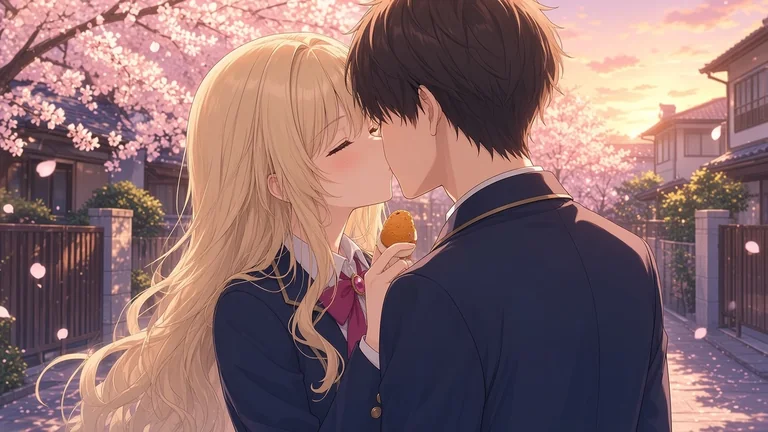
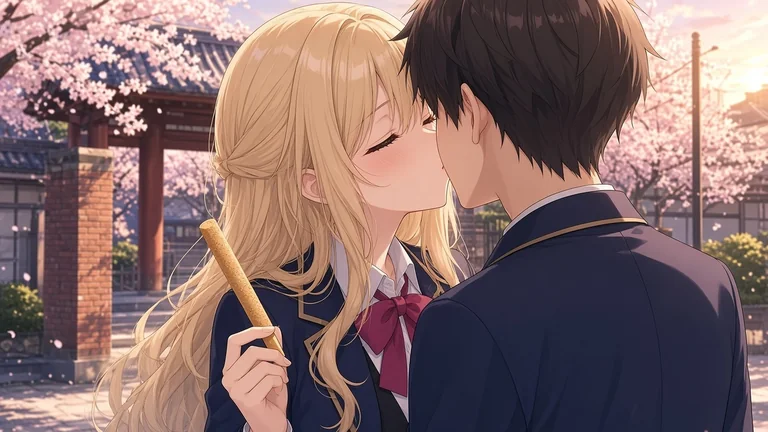
v1.8.3: CG追加（ことは・ルカ各5枚）、夏帆の食堂・麗華のキスCGを描き直し

diff --git a/public/changelog.html b/public/changelog.html
@@ -1,5 +1,5 @@
 <!doctype html><html lang="ja"><head><meta charset="utf-8"><meta name="viewport" content="width=device-width,initial-scale=1"><title>更新履歴 | 青春クロニクル ～君と過ごした1000日間～</title><link rel="icon" href="./icon.svg">
 <style>body{font-family:"Hiragino Sans","Noto Sans JP",system-ui,sans-serif;background:#f6f1e9;color:#2b2622;max-width:720px;margin:0 auto;padding:24px 18px 60px;line-height:1.85}h1{font-size:1.5rem}h2{font-size:1.1rem;color:#2f6f73;margin-top:2em}a{color:#2f6f73}.ph{background:#fff3cd;padding:2px 6px;border-radius:4px}</style></head>
-<body><p><a href="./">← ゲームに戻る</a></p><h1>更新履歴</h1><h2>2026-10-31（v1.8.2）</h2><ul><li>イベントCG（一枚絵）を追加：速水夏帆・桐生院麗華の各5枚（個別イベント3枚・告白・キス）。グッドエンドにキスの場面を追加</li></ul><h2>2026-10-31（v1.8.1）</h2><ul><li>イベントCG（一枚絵）を追加：氷室澪・白鷺ゆらの各5枚（個別イベント3枚・告白・キス）。グッドエンドにキスの場面を追加</li><li>春日ひなたの「アルバムの写真」（指切りの写真）と「雨宿りの告白未遂」（商店街のアーケード）を本文に合わせて描き直し</li><li>CGの輪郭をよりくっきりさせる処理を追加</li></ul><h2>2026-10-31（v1.8.0）</h2><ul><li>イベントCG（一枚絵）に対応：大事な場面で画面いっぱいのイラストが表示され、その上に台詞が出ます（スマホ縦画面では絵を切らずに表示）</li><li>まずは春日ひなたの5枚（焼きたての朝・アルバムの写真・雨宿りの告白未遂・歩道橋の告白・春風のキス）。ほかのヒロインは順次追加予定</li><li>ひなたのグッドエンドにキスの場面を追加</li><li>タイトル画面に「CGモード」：一度見たCGをいつでも見返せます</li></ul><h2>2026-10-31（v1.7.5）</h2><ul><li>公開URLを https://gamebar777.github.io/seishun-chronicle/ に変更しました（旧URLは表示されなくなります）</li><li>紹介ページ・README に残っていた旧作名を削除</li></ul><h2>2026-10-31（v1.7.4）</h2><ul><li>井上 暸の立ち絵を描き直しました（スポーツ刈り・太い眉・落ち着いた顔立ちに変更、メガネなし。制服はそのまま、6表情すべて差し替え）</li></ul><h2>2026-10-31（v1.7.3）</h2><ul><li>芽衣・健太・井上 暸に立ち絵がつきました（各6表情：通常・笑顔・悲しみ・驚き・怒り・照れ）。話している場面で表示され、台詞に合わせて表情が変わります</li><li>話し手が切り替わった直後に、前の人物の髪が重なって見えることがある不具合を修正</li></ul><h2>2026-10-31（v1.7.2）</h2><ul><li>悪友・田中大吾の名前を「井上 暸（いのうえ・りょう）」に変更（台詞・設定の表示も変更、名前が出る台詞は声も録り直し）</li><li>ボイスで「澪（みお）」が「もお」のように聞こえる問題を修正：人名の読みを指定して、名前が出る台詞を録り直し（澪・氷室ほか約240行）</li></ul><h2>2026-10-31（v1.7.1）</h2><ul><li>田中大吾にボイスがつきました（109行、ElevenLabs のAI音声）。設定に田中の音量を追加</li></ul><h2>2026-10-31（v1.7）</h2><ul><li>新キャラ・田中大吾が登場：主人公の悪友で自称「恋愛研究会」会長。ボケ倒すけど根はいいやつ。健太との3人の場面を含む27本、卒業式やエンディングにも登場（声はまだなし・端末の読み上げ）</li><li>健太をイケメンで相談に乗ってくれる親友に：相談の場面5本を追加、プロローグ・バレンタイン・卒業式の台詞を追加（新しい台詞にもボイスつき）</li><li>噂や爆弾の情報を教えてくれる健太の役割は従来どおり</li><li>1周のプレイ時間の目安が約3.8時間から約4.2時間に</li></ul><h2>2026-10-31（v1.6）</h2><ul><li>ヒロイン9人・芽衣・健太・真鍋先生の台詞にボイスがつきました（約2,240行。ElevenLabs で生成したAI音声）</li><li>主人公の名前は文字では表示され、音声では名前を呼ばない言い回しになります</li><li>設定に「ボイスON」と、芽衣・健太・真鍋先生の音量を追加</li><li>地の文とその他の人物は、これまでどおり端末内蔵の読み上げです</li></ul><h2>2026-10-31（v1.5）</h2><ul><li>主人公の妹・芽衣（めい）が登場：家での場面37本（1年目は中学3年の受験生、2年目に星見ヶ丘学園へ入学）。誕生日、初詣、受験、クリスマス、卒業式の送辞など</li><li>約9週ごとに「芽衣の恋愛相談」：気になる子の様子（好感度の目安・爆弾の気配・しばらく話していない子）を教えてくれます</li><li>一部のエンディングに芽衣が登場</li><li>1周のプレイ時間の目安が約3.4時間から約3.8時間に</li></ul><h2>2026-10-31（v1.4）</h2><ul><li>シナリオを大幅に追加：学校生活の日常シーン113本（行事・季節・友人とのひととき）、ヒロイン9人のサイドイベント27本（各3話）、デート先15か所の到着・別れの描写、卒業式の場面を拡張</li><li>1周のプレイ時間の目安が約2.3時間から約3.4時間に</li><li>日常シーンやヒロインから来るサイドイベントは「会いに行った」扱いにならないように（放っておくと爆弾が点く仕組みは従来どおり）</li></ul><h2>2026-10-31（v1.3）</h2><ul><li>主題歌を提供音源（ボーカル入り）に変更。タイトル画面の「🎵 主題歌」で再生・停止・ループ、歌詞表示の切り替え。エンディングでも流れます</li></ul><h2>2026-10-31（v1.2）</h2><ul><li>立ち絵を高解像度化（PC 640px幅／スマホ 360px幅）、縁取りを除去、凛の髪型を統一</li><li>全ヒロインに驚き・怒り・照れの表情を追加（計6表情）</li><li>告白・エンディング・夏祭りデートに一枚絵CGを追加</li><li>BGMを強化（リバーブ、対旋律、フィル入りドラム、ステレオ定位）、主題歌のメロディを作り直し（インストゥルメンタル）</li><li>タイトル画面・場面転換・告白シーンの演出を追加</li><li>BGMの音量・帯域バランスを調整（低音を抑え、メロディを明瞭に）</li></ul><h2>2026-10-31（v1.1）</h2><ul><li>動く背景イラスト16種（季節・天気・時間帯で桜／雨／雪／落ち葉／蛍のエフェクト、視差、色調）</li><li>ヒロイン9人の立ち絵（通常・笑顔・悲しみの3表情）</li><li>場面別BGM6曲と主題歌「千日のプレリュード」（オリジナル・インストゥルメンタル、歌詞表示つき）</li><li>サイドイベント18本を追加</li></ul><h2>2026-10-31</h2><p>旧作に代わり、恋愛学園シミュレーション『青春クロニクル』として作り直しました。</p>
+<body><p><a href="./">← ゲームに戻る</a></p><h1>更新履歴</h1><h2>2026-10-31（v1.8.3）</h2><ul><li>イベントCG（一枚絵）を追加：灯野ことは・姫野ルカの各5枚（個別イベント3枚・告白・キス）。グッドエンドにキスの場面を追加</li><li>夏帆の「はやみ食堂」（品書きの崩れた文字を除去）と麗華のキスCG（きなこ棒を棒状に）を描き直し</li></ul><h2>2026-10-31（v1.8.2）</h2><ul><li>イベントCG（一枚絵）を追加：速水夏帆・桐生院麗華の各5枚（個別イベント3枚・告白・キス）。グッドエンドにキスの場面を追加</li></ul><h2>2026-10-31（v1.8.1）</h2><ul><li>イベントCG（一枚絵）を追加：氷室澪・白鷺ゆらの各5枚（個別イベント3枚・告白・キス）。グッドエンドにキスの場面を追加</li><li>春日ひなたの「アルバムの写真」（指切りの写真）と「雨宿りの告白未遂」（商店街のアーケード）を本文に合わせて描き直し</li><li>CGの輪郭をよりくっきりさせる処理を追加</li></ul><h2>2026-10-31（v1.8.0）</h2><ul><li>イベントCG（一枚絵）に対応：大事な場面で画面いっぱいのイラストが表示され、その上に台詞が出ます（スマホ縦画面では絵を切らずに表示）</li><li>まずは春日ひなたの5枚（焼きたての朝・アルバムの写真・雨宿りの告白未遂・歩道橋の告白・春風のキス）。ほかのヒロインは順次追加予定</li><li>ひなたのグッドエンドにキスの場面を追加</li><li>タイトル画面に「CGモード」：一度見たCGをいつでも見返せます</li></ul><h2>2026-10-31（v1.7.5）</h2><ul><li>公開URLを https://gamebar777.github.io/seishun-chronicle/ に変更しました（旧URLは表示されなくなります）</li><li>紹介ページ・README に残っていた旧作名を削除</li></ul><h2>2026-10-31（v1.7.4）</h2><ul><li>井上 暸の立ち絵を描き直しました（スポーツ刈り・太い眉・落ち着いた顔立ちに変更、メガネなし。制服はそのまま、6表情すべて差し替え）</li></ul><h2>2026-10-31（v1.7.3）</h2><ul><li>芽衣・健太・井上 暸に立ち絵がつきました（各6表情：通常・笑顔・悲しみ・驚き・怒り・照れ）。話している場面で表示され、台詞に合わせて表情が変わります</li><li>話し手が切り替わった直後に、前の人物の髪が重なって見えることがある不具合を修正</li></ul><h2>2026-10-31（v1.7.2）</h2><ul><li>悪友・田中大吾の名前を「井上 暸（いのうえ・りょう）」に変更（台詞・設定の表示も変更、名前が出る台詞は声も録り直し）</li><li>ボイスで「澪（みお）」が「もお」のように聞こえる問題を修正：人名の読みを指定して、名前が出る台詞を録り直し（澪・氷室ほか約240行）</li></ul><h2>2026-10-31（v1.7.1）</h2><ul><li>田中大吾にボイスがつきました（109行、ElevenLabs のAI音声）。設定に田中の音量を追加</li></ul><h2>2026-10-31（v1.7）</h2><ul><li>新キャラ・田中大吾が登場：主人公の悪友で自称「恋愛研究会」会長。ボケ倒すけど根はいいやつ。健太との3人の場面を含む27本、卒業式やエンディングにも登場（声はまだなし・端末の読み上げ）</li><li>健太をイケメンで相談に乗ってくれる親友に：相談の場面5本を追加、プロローグ・バレンタイン・卒業式の台詞を追加（新しい台詞にもボイスつき）</li><li>噂や爆弾の情報を教えてくれる健太の役割は従来どおり</li><li>1周のプレイ時間の目安が約3.8時間から約4.2時間に</li></ul><h2>2026-10-31（v1.6）</h2><ul><li>ヒロイン9人・芽衣・健太・真鍋先生の台詞にボイスがつきました（約2,240行。ElevenLabs で生成したAI音声）</li><li>主人公の名前は文字では表示され、音声では名前を呼ばない言い回しになります</li><li>設定に「ボイスON」と、芽衣・健太・真鍋先生の音量を追加</li><li>地の文とその他の人物は、これまでどおり端末内蔵の読み上げです</li></ul><h2>2026-10-31（v1.5）</h2><ul><li>主人公の妹・芽衣（めい）が登場：家での場面37本（1年目は中学3年の受験生、2年目に星見ヶ丘学園へ入学）。誕生日、初詣、受験、クリスマス、卒業式の送辞など</li><li>約9週ごとに「芽衣の恋愛相談」：気になる子の様子（好感度の目安・爆弾の気配・しばらく話していない子）を教えてくれます</li><li>一部のエンディングに芽衣が登場</li><li>1周のプレイ時間の目安が約3.4時間から約3.8時間に</li></ul><h2>2026-10-31（v1.4）</h2><ul><li>シナリオを大幅に追加：学校生活の日常シーン113本（行事・季節・友人とのひととき）、ヒロイン9人のサイドイベント27本（各3話）、デート先15か所の到着・別れの描写、卒業式の場面を拡張</li><li>1周のプレイ時間の目安が約2.3時間から約3.4時間に</li><li>日常シーンやヒロインから来るサイドイベントは「会いに行った」扱いにならないように（放っておくと爆弾が点く仕組みは従来どおり）</li></ul><h2>2026-10-31（v1.3）</h2><ul><li>主題歌を提供音源（ボーカル入り）に変更。タイトル画面の「🎵 主題歌」で再生・停止・ループ、歌詞表示の切り替え。エンディングでも流れます</li></ul><h2>2026-10-31（v1.2）</h2><ul><li>立ち絵を高解像度化（PC 640px幅／スマホ 360px幅）、縁取りを除去、凛の髪型を統一</li><li>全ヒロインに驚き・怒り・照れの表情を追加（計6表情）</li><li>告白・エンディング・夏祭りデートに一枚絵CGを追加</li><li>BGMを強化（リバーブ、対旋律、フィル入りドラム、ステレオ定位）、主題歌のメロディを作り直し（インストゥルメンタル）</li><li>タイトル画面・場面転換・告白シーンの演出を追加</li><li>BGMの音量・帯域バランスを調整（低音を抑え、メロディを明瞭に）</li></ul><h2>2026-10-31（v1.1）</h2><ul><li>動く背景イラスト16種（季節・天気・時間帯で桜／雨／雪／落ち葉／蛍のエフェクト、視差、色調）</li><li>ヒロイン9人の立ち絵（通常・笑顔・悲しみの3表情）</li><li>場面別BGM6曲と主題歌「千日のプレリュード」（オリジナル・インストゥルメンタル、歌詞表示つき）</li><li>サイドイベント18本を追加</li></ul><h2>2026-10-31</h2><p>旧作に代わり、恋愛学園シミュレーション『青春クロニクル』として作り直しました。</p>
 <h2>v0.3.0</h2><ul><li>文章を短く：話し手のアイコンと吹き出し、選択肢アイコンとリスク／リターンのヒント、「くわしく」で続きを表示</li><li>手ごたえ：数値の増減が浮かんで見える、バーとお金が動く、大きな出来事では画面が揺れる・光る、年替わりの演出、効果音（初期設定はオフ）</li><li>ドラマ：過去の選択が返ってくる「ECHO」の全画面カード、号外の見出し、人生ごとの「夢」とメーター、ライバル・初恋・謎の手紙などの連作イベント、どんでん返し</li><li>落ち着いた年はワンタップで進む。端末の「視差効果を減らす」設定に従う。セーブ形式v3（旧セーブは自動で移行）</li></ul><h2>v0.2.0</h2><ul><li>オリジナルイラスト18点を追加（タイトル、カテゴリ別の場面、人生の振り返り）</li></ul><h2>v0.1.0（MVP）</h2><ul><li>初回公開版：人生シミュレーション本体、114種の出来事、26種の職業、残響システム、世代継承、各画面、セーブのエクスポート/インポート</li></ul>
 <hr><p style="font-size:.8rem"><a href="./about.html">このゲームについて</a>・<a href="./how-to-play.html">遊び方</a>・<a href="./faq.html">FAQ</a>・<a href="./changelog.html">更新履歴</a>・<a href="./privacy.html">プライバシーポリシー</a>・<a href="./terms.html">利用規約</a></p></body></html>

diff --git a/src/sc/data/hevents.ts b/src/sc/data/hevents.ts
@@ -101,30 +101,30 @@ export const HEVENTS: Ev[] = [
 
   // ───── 灯野ことは ─────
   { id: 'kotoha_1', h: 'kotoha', title: '最初の読者', cond: s => lv(s, 'kotoha', 30),
-    lines: ['n:図書室。ことはが原稿用紙を数枚、震える手で差し出した。', 'h(照):あ、あの……読んで、ほしくて。誰にも見せたこと、ないんだけど……', 'n:雨の神様に恋をした少女の話だった。'],
+    lines: ['cg:kotoha_1', 'n:図書室。ことはが原稿用紙を数枚、震える手で差し出した。', 'h(照):あ、あの……読んで、ほしくて。誰にも見せたこと、ないんだけど……', 'n:雨の神様に恋をした少女の話だった。'],
     choices: [{ label: '感想を原稿用紙に書いて返す', eff: { t: 8, tr: 8, stats: { bun: 3 }, hflag: 'kotoha_letter' }, need: s => s.stats.bun >= 90, res: ['h(驚):……感想、手紙で……？', 'h(照):……一生、とっておく'] }, { label: '「面白かった！」とすぐ伝える', eff: { f: 6, t: 4 }, res: ['h(嬉):……ほ、ほんと……？'] }] },
   { id: 'kotoha_2', h: 'kotoha', title: '雨の神社', cond: s => lv(s, 'kotoha', 45, 30),
-    lines: ['n:突然の雨。ことはと神社の軒下で雨宿りをした。', 'h:……この神社にね、小説の舞台のモデルがあるの。', 'h(照):{C}くんと、ここに来てみたかった。……言っちゃった'],
+    lines: ['cg:kotoha_2', 'n:突然の雨。ことはと神社の軒下で雨宿りをした。', 'h:……この神社にね、小説の舞台のモデルがあるの。', 'h(照):{C}くんと、ここに来てみたかった。……言っちゃった'],
     choices: [{ label: '「次の章、ここで書こうよ」', eff: { t: 10, tr: 6 }, res: ['h(嬉):……うん。{C}くんも、登場させていい？'] }, { label: '雨音を聞きながら黙って並ぶ', eff: { t: 6, tr: 8 }, res: ['n:雨の音だけが、二人の間を満たした。'] }] },
   { id: 'kotoha_3', h: 'kotoha', title: '文学賞', cond: s => lv(s, 'kotoha', 55, 45, 40) && Y(s) >= 2,
     lines: ['n:二年の秋。ことはが文学賞に応募すると決めた。締め切り前夜、三百枚の原稿。', 'h(哀):……最後の章が、書けない。結末が、わからないの。', 'h(照):{C}くん……全部、読んでくれる？ 今夜中に。'],
     choices: [{ label: '朝まで、最後まで読む', eff: { t: 14, tr: 12, hflag: 'kotoha_read', stats: { hp: -12, bun: 4 } }, res: ['n:夜明け。読み終えて顔を上げると、ことはが泣いていた。', 'h(嬉):……結末、わかった。ありがとう'] }, { label: '「明日早いから、冒頭だけ」', eff: { t: -6, tr: -4 }, res: ['h(哀):……そう、だよね'] }] },
   { id: 'kotoha_4', h: 'kotoha', title: '選考結果', cond: s => lv(s, 'kotoha', 65, 65, 55) && Y(s) >= 3 && seen(s, 'kotoha_3'),
-    lines: ['n:三年の春。文学賞、最終選考で落選。', 'h(哀):……佳作にも、入らなかった。……やっぱり、わたしなんか。', 'n:ことはは、原稿を捨てようとしていた。'],
+    lines: ['cg:kotoha_4', 'n:三年の春。文学賞、最終選考で落選。', 'h(哀):……佳作にも、入らなかった。……やっぱり、わたしなんか。', 'n:ことはは、原稿を捨てようとしていた。'],
     choices: [{ label: '原稿を取り上げて「俺はこの話が好きだ」', eff: { t: 12, tr: 12, hflag: 'kotoha_keep' }, res: ['h(哀):……っ……うん……書く。もう一回、書く'] }, { label: '「次があるよ」', eff: { t: 4, tr: 4 }, res: ['h:……うん'] }] },
 
   // ───── 姫野ルカ ─────
   { id: 'ruka_1', h: 'ruka', title: '撮影モデル', cond: s => lv(s, 'ruka', 30),
-    lines: ['n:放課後の写真部。ルカがカメラを押しつけてきた。', 'h(嬉):今日はセンパイがカメラマンです！ ルカを一番かわいく撮ってくださいね？'],
+    lines: ['cg:ruka_1', 'n:放課後の写真部。ルカがカメラを押しつけてきた。', 'h(嬉):今日はセンパイがカメラマンです！ ルカを一番かわいく撮ってくださいね？'],
     choices: [{ label: '自然に笑った瞬間を撮る', eff: { t: 8, tr: 6 }, need: s => s.stats.gei >= 70, res: ['h(驚):……え、これ、ルカ……？ こんな顔、してたんだ'] }, { label: 'ポーズを指示して撮る', eff: { f: 6, t: 3 }, res: ['h(嬉):センパイ、意外とプロっぽ〜い'] }] },
   { id: 'ruka_2', h: 'ruka', title: '夜のコンビニ', cond: s => lv(s, 'ruka', 45, 30),
-    lines: ['n:夜十時。コンビニでルカと鉢合わせた。カゴの中は特売の卵と、もやし。', 'h(驚):……見ました？', 'h:お母さん、今日も夜勤なんで。……はい、ルカちゃん実は主婦でしたー。笑っていいですよ'],
+    lines: ['cg:ruka_2', 'n:夜十時。コンビニでルカと鉢合わせた。カゴの中は特売の卵と、もやし。', 'h(驚):……見ました？', 'h:お母さん、今日も夜勤なんで。……はい、ルカちゃん実は主婦でしたー。笑っていいですよ'],
     choices: [{ label: '荷物を持って家まで送る', eff: { t: 10, tr: 10 }, res: ['h(照):……センパイ、こういうとき、からかわないんですね'] }, { label: '「偉いな」とだけ言う', eff: { f: 4, tr: 6 }, res: ['h:……別に、偉くないですよ'] }] },
   { id: 'ruka_3', h: 'ruka', title: '仮面', cond: s => lv(s, 'ruka', 55, 45, 40) && s.week >= 78,
     lines: ['n:ルカの母が過労で倒れた。病院のベンチで、ルカは笑っていた。', 'h(嬉):あはは、大丈夫ですよ〜。ルカ、慣れてるんで。全然、へっちゃら……', 'n:笑顔のまま、涙だけが落ちた。'],
     choices: [{ label: '「もう笑わなくていい」', eff: { t: 14, tr: 14, hflag: 'ruka_mask' }, res: ['h(哀):……っ、う……センパイ、ずるい……', 'n:彼女は声を上げて泣いた。初めて、子どもみたいに。'] }, { label: '「強いな、ルカは」', eff: { t: -4, h: 8 }, res: ['h:……ですよね〜。ルカ、強いんで'] }] },
   { id: 'ruka_4', h: 'ruka', title: '本気の負け', cond: s => lv(s, 'ruka', 65, 65, 55) && seen(s, 'ruka_3') && s.week >= 110,
-    lines: ['n:ルカのSNSに、知らない男子との写真が上がっていた。読者モデルのレン。', 'h:あ、見ました？ ……妬いてくれました？ なんて', 'h(照):……試したんです。センパイが、追いかけてくれるか。最低ですよね'],
+    lines: ['cg:ruka_4', 'n:ルカのSNSに、知らない男子との写真が上がっていた。読者モデルのレン。', 'h:あ、見ました？ ……妬いてくれました？ なんて', 'h(照):……試したんです。センパイが、追いかけてくれるか。最低ですよね'],
     choices: [{ label: '「妬いた。だから、もう試すな」', eff: { t: 12, tr: 10, rival: -60, hflag: 'ruka_real' }, res: ['h(照):……はい。……もう、しません'] }, { label: '「好きにすればいい」', eff: { t: -10, rival: 50 }, res: ['h(哀):……ですよね'] }] },
 
   // ───── 黒瀬凛 ─────

diff --git a/src/sc/data/heroinesB.ts b/src/sc/data/heroinesB.ts
@@ -93,7 +93,7 @@ export const kotoha: Heroine = {
   topicWords: ['本', '小説', '雨', '神話', '言葉', '詩', '図書', '物語'],
   gift: { good: '万年筆と原稿用紙', bad: 'カラオケの割引券' },
   endings: {
-    good: ['n:卒業式のあと、図書室。窓際の席に、一冊の手製の本が置かれていた。', 'h(照):{C}くん……完成したの。最後の一行まで。', 'n:表紙には、二人で見た雨の神社の絵。', 'h(告):最後の一行はね……「わたしは、あなたが好きです」。……物語じゃなくて、本当の気持ち。', 'me:俺も、ことはが好きだ。', 'h(嬉):……書けた。ちゃんと、声に出して、言えた。'],
+    good: ['n:卒業式のあと、図書室。窓際の席に、一冊の手製の本が置かれていた。', 'cg:kotoha_confess', 'h(照):{C}くん……完成したの。最後の一行まで。', 'n:表紙には、二人で見た雨の神社の絵。', 'h(告):最後の一行はね……「わたしは、あなたが好きです」。……物語じゃなくて、本当の気持ち。', 'me:俺も、ことはが好きだ。', 'h(嬉):……書けた。ちゃんと、声に出して、言えた。', 'n:ことはが、手製の本を胸に抱いたまま、一歩近づいた。', 'cg:kotoha_kiss', 'n:触れたのは一瞬。物語の最後の一行より、ずっと確かな気持ちだった。'],
     normal: ['h:{C}くん……本が出たら、最初に送るね。', 'h(照):あとがきに、名前、書いてもいい……？'],
     friend: ['h:{C}くんは、わたしの一番の読者。……ずっと、ね。'],
     rival: ['n:ことはは、文芸サークルの大学生・篠原と同人誌を作っているらしい。', 'h(哀):……読んでほしかったのは、あなただったのに。'],
@@ -144,7 +144,7 @@ export const ruka: Heroine = {
   topicWords: ['服', 'ファッション', 'コスメ', 'プリクラ', 'カフェ', 'モデル', 'ネイル', 'SNS'],
   gift: { good: '手書きのレシピノート（おにぎりの具一覧）', bad: '量産型のぬいぐるみ' },
   endings: {
-    good: ['n:卒業式のあと、ルカが在校生の列から抜け出してきた。', 'h(照):{C}、卒業おめでとーございます。……って、軽く言いたかったのに。', 'h(哀):来年から、学校に{C}がいないとか、意味わかんない。', 'h(告):好き。からかいとかじゃなくて、本気。先に本気になったの、ルカの負けでいいです。', 'me:いや、俺の方が先だった。ルカが好きだ。', 'h(嬉):……っ、ずるい。最後まで、ずるいセンパイ。'],
+    good: ['n:卒業式のあと、ルカが在校生の列から抜け出してきた。', 'cg:ruka_confess', 'h(照):{C}、卒業おめでとーございます。……って、軽く言いたかったのに。', 'h(哀):来年から、学校に{C}がいないとか、意味わかんない。', 'h(告):好き。からかいとかじゃなくて、本気。先に本気になったの、ルカの負けでいいです。', 'me:いや、俺の方が先だった。ルカが好きだ。', 'h(嬉):……っ、ずるい。最後まで、ずるいセンパイ。', 'n:ルカが、制服の袖を掴んで、背伸びをした。', 'cg:ruka_kiss', 'n:触れたのは一瞬。からかいの笑顔じゃない、本気の顔がそこにあった。'],
     normal: ['h:{C}、大学で可愛い子に浮気したら許さないですからね？', 'h(照):……毎日、連絡しますから。'],
     friend: ['h:センパイは、ルカの一番の「先輩」です。……今は、それで'],
     rival: ['n:ルカは読者モデル仲間のレンと付き合っているらしい。SNSに二人の写真が上がっていた。', 'h:……センパイが、追いかけてくれなかったから。'],

diff --git a/src/sc/data/cg.ts b/src/sc/data/cg.ts
@@ -26,6 +26,16 @@ export const CG_LIST: CgDef[] = [
   { id: 'reika_4', h: 'reika', title: '縁談' },
   { id: 'reika_confess', h: 'reika', title: '歩いて帰る道' },
   { id: 'reika_kiss', h: 'reika', title: 'ただの麗華として' },
+  { id: 'kotoha_1', h: 'kotoha', title: '最初の読者' },
+  { id: 'kotoha_2', h: 'kotoha', title: '雨の神社' },
+  { id: 'kotoha_4', h: 'kotoha', title: '選考結果' },
+  { id: 'kotoha_confess', h: 'kotoha', title: '最後の一行' },
+  { id: 'kotoha_kiss', h: 'kotoha', title: '図書室の窓際で' },
+  { id: 'ruka_1', h: 'ruka', title: '撮影モデル' },
+  { id: 'ruka_2', h: 'ruka', title: '夜のコンビニ' },
+  { id: 'ruka_4', h: 'ruka', title: '本気の負け' },
+  { id: 'ruka_confess', h: 'ruka', title: '卒業式の後' },
+  { id: 'ruka_kiss', h: 'ruka', title: '本気の負け、のその先' },
 ];
 export const CG_MAP: Record<string, CgDef> = Object.fromEntries(CG_LIST.map(c => [c.id, c]));
 const KEY = 'seishun:cg';

diff --git a/docs/cg-list.md b/docs/cg-list.md
@@ -11,8 +11,8 @@
 | 白鷺ゆら | yura_1 音が見える | yura_2 冬の海 | yura_4 わたしの音 | yura_confess 夕暮れの音楽室 | yura_kiss | **実装済み** |
 | 速水夏帆 | kaho_1 はやみ食堂 | kaho_3 止まった脚 | kaho_4 最後の県大会 | kaho_confess 誰もいないグラウンド | kaho_kiss | **実装済み** |
 | 桐生院麗華 | reika_2 秘密のゲームセンター | reika_3 姉の影 | reika_4 縁談 | reika_confess 校門・歩いて帰る | reika_kiss | **実装済み** |
-| 灯野ことは | kotoha_1 最初の読者 | kotoha_2 雨の神社 | kotoha_4 選考結果 | kotoha_confess 図書室の手製の本 | kotoha_kiss | 未実装 |
-| 姫野ルカ | ruka_1 撮影モデル | ruka_2 夜のコンビニ | ruka_4 本気の負け | ruka_confess 卒業式の後 | ruka_kiss | 未実装 |
+| 灯野ことは | kotoha_1 最初の読者 | kotoha_2 雨の神社 | kotoha_4 選考結果 | kotoha_confess 図書室の手製の本 | kotoha_kiss | **実装済み** |
+| 姫野ルカ | ruka_1 撮影モデル | ruka_2 夜のコンビニ | ruka_4 本気の負け | ruka_confess 卒業式の後 | ruka_kiss | **実装済み** |
 | 黒瀬凛 | rin_1 病院の売店 | rin_3 手術の前夜 | rin_4 同じ未来 | rin_confess 病院の屋上 | rin_kiss | 未実装 |
 | 宙野しずく（隠し） | shizuku_meet 丘の上の幽霊 | shizuku_1 木星の縞 | shizuku_3 新しい光 | shizuku_confess 旧天文台のドーム | shizuku_kiss | 未実装 |
 
